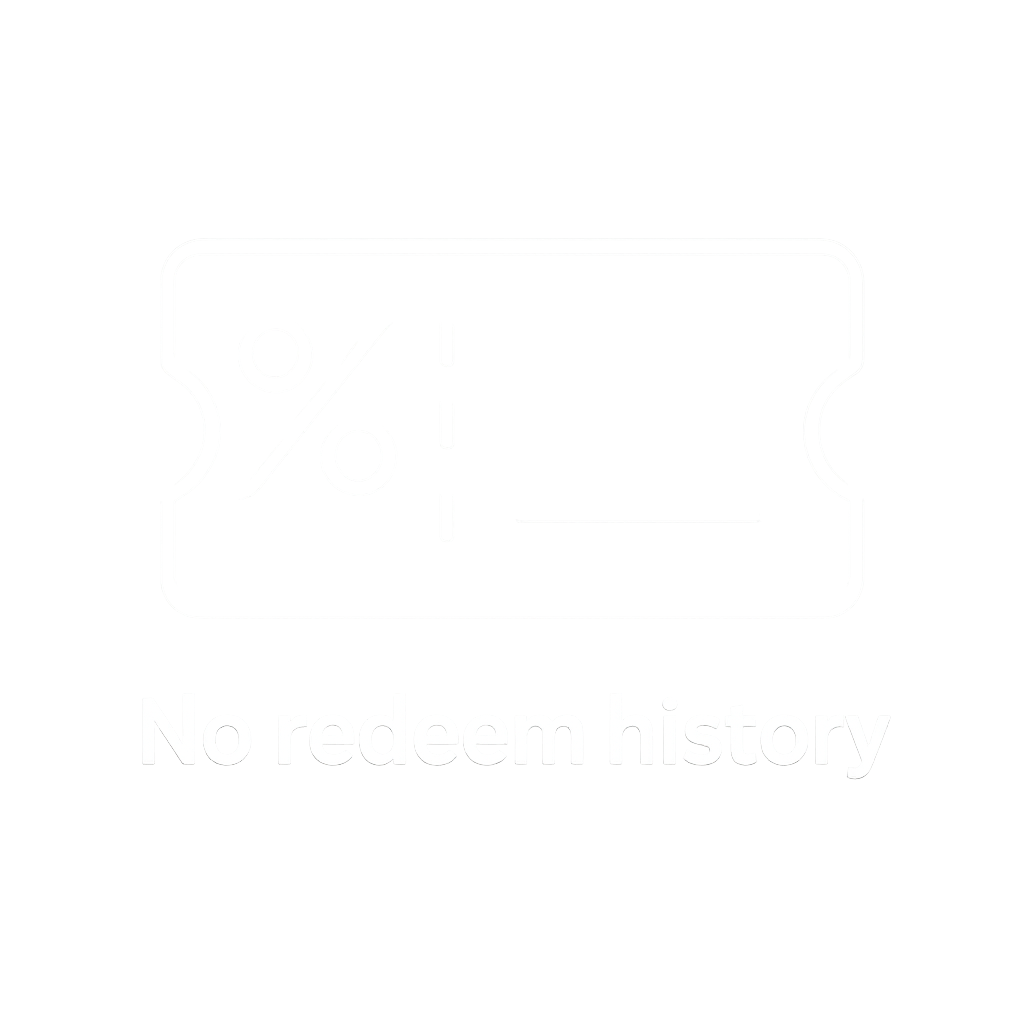
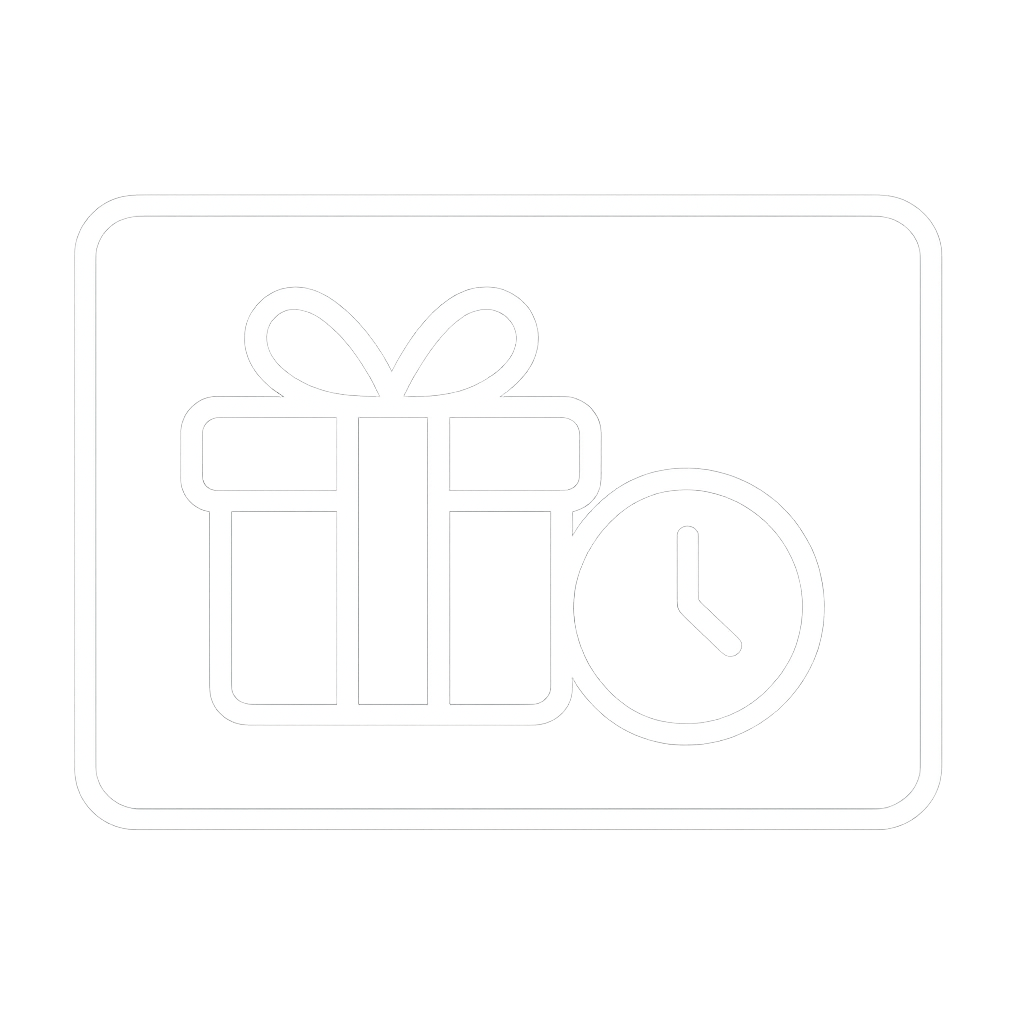
fixed some issu

diff --git a/src/screens/Home/AllShops.jsx b/src/screens/Home/AllShops.jsx
@@ -148,12 +148,13 @@ export default AllShops;
 const styles = StyleSheet.create({
   container: {
     flex: 1,
-    paddingTop: hp(1),
+    justifyContent:"center",
+    // paddingTop: hp(1),
     paddingBottom: hp(4),
-    paddingHorizontal: wp(4),
+    // paddingHorizontal: wp(4),
   },
   filterContainer: {
-    marginBottom: hp(2),
+    marginVertical: hp(2),
   },
   filterScrollContent: {
     paddingHorizontal: wp(1),
@@ -180,6 +181,10 @@ const styles = StyleSheet.create({
   },
   listContent: {
     paddingBottom: hp(10.5),
+    paddingTop:hp(2),
+    justifyContent:"center",
+    alignItems:"center",
+    paddingHorizontal:wp(1)
   },
   skeletonContainer: {
     flexDirection: 'row',

diff --git a/src/screens/Profile/Rewards.jsx b/src/screens/Profile/Rewards.jsx
@@ -51,8 +51,8 @@ const styles = StyleSheet.create({
     alignItems: 'center',
   },
   label: {
-    fontFamily: 'Poppins-SemiBold',
-    fontSize: RFValue(16),
+    fontFamily: 'Poppins-Bold',
+    fontSize: RFValue(20),
     color: '#fff',
     marginBottom: hp(1),
   },
